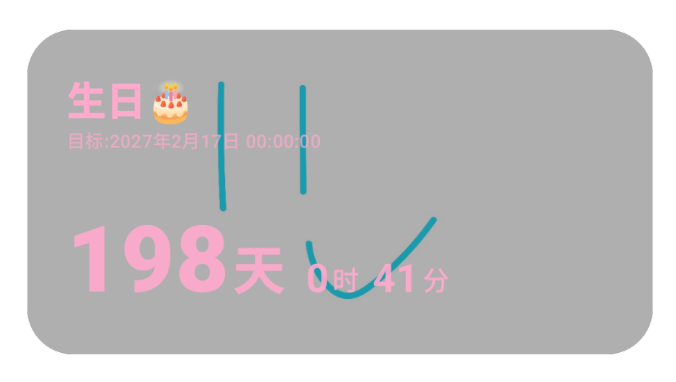
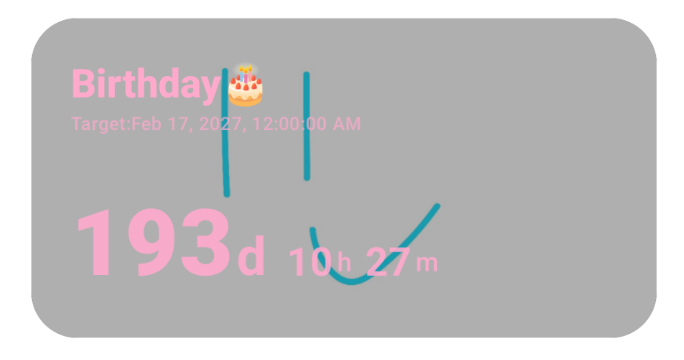
readme update

diff --git a/README_EN.md b/README_EN.md
@@ -2,7 +2,11 @@
 
  [🇨🇳中文](README.md) 🇺🇸English
 
+ App Language Supported :🇨🇳Chinese 🇺🇸English 🇯🇵Japanese 🇰🇷Korean
+
  </div>
+
+ ---
 
 <div align="center">
 
@@ -42,13 +46,13 @@ Simple, beautiful, and easy to use
 
 # Features
 
-## Event Cards
+## Countdown Cards
 
 The app displays the dates you create in the form of cards, making important events more intuitive
 
 Click the button in the upper-left corner of the homepage to switch cardsizes
 
-Large<img src="screenshots/homepageSample1.png" width="200" alt="Large countdown day card"> Small<img src="screenshots/homepageSample2.png" width="200" alt="Small countdown day card">
+Large<img src="screenshots/en/homepageSample1.png" width="200" alt="Large countdown day card"> Small<img src="screenshots/en/homepageSample2.png" width="200" alt="Small countdown day card">
 
 ---
 
@@ -56,15 +60,15 @@ Large<img src="screenshots/homepageSample1.png" width="200" alt="Large countdown
 
 Long press a countdown day card to open the menu and select **Export as Image** to save the card as an image for easy sharing
 
-<img src="screenshots/share.png" width="200" alt="Export menu">
+<img src="screenshots/en/share.png" width="200" alt="Export menu">
 
 Sample:
 
-<img src="screenshots/pic1.png" width="220" alt="Export image example 1">   <img src="screenshots/pic2.png" width="120" alt="Export image example 2">
+<img src="screenshots/en/pic1.png" width="220" alt="Export image example 1">   <img src="screenshots/en/pic2.png" width="120" alt="Export image example 2">
 
 ---
 
-# Create Event Cards
+# Create Countdown Cards
 
 ## Customization
 
@@ -82,7 +86,7 @@ Supports:
 -   🔁 Repeating countdowns
 -   🔔 Notification reminders
 
-<img src="screenshots/basicedit.png" width="200" alt="Basic edit page"> <img src="screenshots/customize.png" width="200" alt="Customization page">  <img src="screenshots/advance.png" width="200" alt="Advanced settings page">
+<img src="screenshots/en/basicedit.png" width="200" alt="Basic edit page"> <img src="screenshots/en/customize.png" width="200" alt="Customization page">  <img src="screenshots/en/advance.png" width="200" alt="Advanced settings page">
 
 ---
 
@@ -112,7 +116,7 @@ Supports backing up the following content as a ZIP archive:
 
 Convenient for users to migrate data
 
-<img src="screenshots/settings.png" width="200" alt="Settings page">
+<img src="screenshots/en/settings.png" width="200" alt="Settings page">
 
 ---
 
@@ -127,15 +131,15 @@ Supports two widget sizes:
 
 The display effect is consistent with the countdown day cards inside the app
 
-<img src="screenshots/widgetperview.png" width="200" alt="Home screen widget">
+<img src="screenshots/en/widgetperview.png" width="200" alt="Home screen widget">
 
 ---
 
 # Getting Started
 
-### Latest Release
+### Release
 
-[![Releases](https://img.shields.io/badge/Releases-View%20Version-blue?style=for-the-badge&logo=github)](https://github.com/ERSAN-exe/CountDayDown/releases/latest)
+[![Releases](https://img.shields.io/badge/Releases-Latest-blue?style=for-the-badge&logo=github)](https://github.com/ERSAN-exe/CountDayDown/releases/latest)
 
 ### Download latest APK
 
@@ -147,7 +151,7 @@ The display effect is consistent with the countdown day cards inside the app
 
 ---
 
-# Open Source License
+# License
 
 This project is open source under the [**MIT License**](LICENSE)
 
@@ -179,13 +183,13 @@ Author Email: ZErO23_FeedBack@outlook.com
 
 [![Pull Request](https://img.shields.io/badge/Pull%20Request-Submit%20Code-green?style=for-the-badge&logo=github)](https://github.com/ERSAN-exe/CountDayDown/pulls)
 
-[![Feature Request](https://img.shields.io/badge/Feature%20Request-New%20Feature%20Suggestion-blue?style=for-the-badge&logo=lightbulb)](https://github.com/ERSAN-exe/CountDayDown/issues/new)
+[![Feature Request](https://img.shields.io/badge/Feature%20Request-Suggestion-blue?style=for-the-badge&logo=lightbulb)](https://github.com/ERSAN-exe/CountDayDown/issues/new)
 
 ---
 
 # Acknowledgements
 
-**Gemini Agent** provided code assistance during development
+**Gemini** provided code assistance during development
 
 <div align="center">
 

diff --git a/README.md b/README.md
@@ -2,7 +2,11 @@
 
  🇨🇳中文 [🇺🇸English](README_EN.md)
 
+软件支持的语言:🇨🇳中文（繁体/简体） 🇺🇸英语 🇯🇵日语 🇰🇷韩语
+
  </div>
+
+---
 
 <div align="center">
 
@@ -133,11 +137,11 @@
 
 # 开始使用
 
-### 最新版发布页面
+### 发布页面
 
-[![Releases](https://img.shields.io/badge/Releases-查看版本-blue?style=for-the-badge&logo=github)](https://github.com/ERSAN-exe/CountDayDown/releases/latest)
+[![Releases](https://img.shields.io/badge/Releases-最新版-blue?style=for-the-badge&logo=github)](https://github.com/ERSAN-exe/CountDayDown/releases/latest)
 
-### 下载最新版APK
+### 下载最新版安装包
 
 [![Download](https://img.shields.io/badge/下载-安装包-green?style=for-the-badge&logo=android)](https://github.com/ERSAN-exe/CountDayDown/releases/latest/download/app-release.apk)
 
@@ -185,7 +189,7 @@
 
 # 鸣谢
 
-**Gemini Agent** 在开发过程中提供代码辅助
+**Gemini** 在开发过程中提供代码辅助
 
 <div align="center">
 
